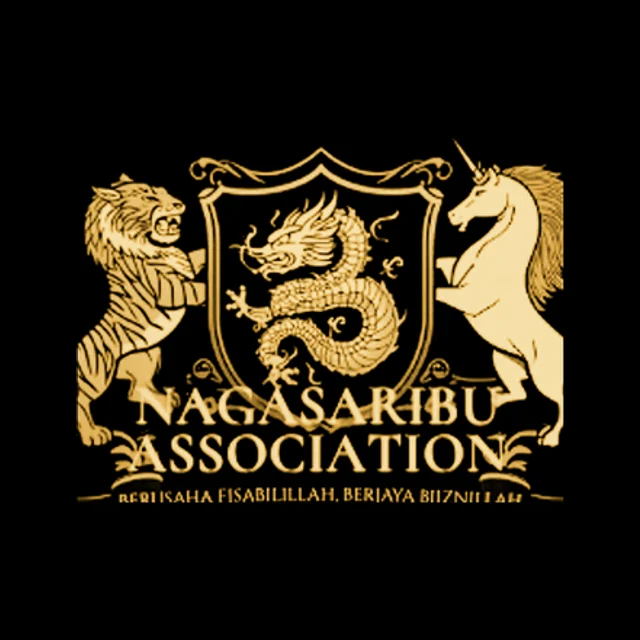
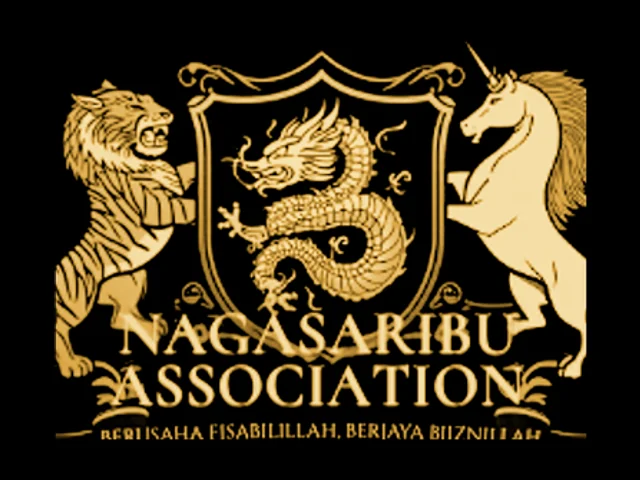
fix(assets): render entity emblems on 4:3 canvas so they fill the emblem box
The emblems were previously authored at three different aspect ratios
(440x327, 440x360, 405x440) with uneven ink margins. Management had a 0px
bottom margin, so object-fit:contain in the 16:9 .emblem box clipped it
visually against the card edge.

- ink box extracted with connected-component analysis (drops stray specks)
- recolored to the site gold ramp (#6e4f16 -> #d9a441 -> #f7e2ad) so all
  three entities match the brand palette instead of mixed steel/blue
- rendered on 440x330 (4:3, matches the 206x154 .emblem inner box), 128x128
  (square, for the 46px/56px icon slots) and 640x480 (entity page logo-card,
  flattened onto black) with the ink box centered and optically equal
- width/height hints updated to the new ratios to avoid layout shift
- cache-bust bumped to v=6

diff --git a/nagasaribu-website-v2/index.html b/nagasaribu-website-v2/index.html
@@ -171,9 +171,9 @@ footer{background:#040a15;color:#a9bccf;padding:56px 0 30px;font-size:13.5px}foo
 <div class="logo-rule"></div>
 </div>
 <div class="logo-list">
-<a class="logo-item" href="management"><img src="assets/nagasaribu-management-icon-128.webp?v=5" width="46" height="46" alt="" aria-hidden="true"><span><b>MANAGEMENT</b><span>Contracting • Supply • Workforce</span></span></a>
-<a class="logo-item" href="consultancy"><img src="assets/nagasaribu-consultancy-icon-128.webp?v=5" width="46" height="46" alt="" aria-hidden="true"><span><b>CONSULTANCY</b><span>Marketing | Consulting | Growth</span></span></a>
-<a class="logo-item" href="association"><img src="assets/nagasaribu-association-icon-128.webp?v=5" width="46" height="46" alt="" aria-hidden="true"><span><b>ASSOCIATION</b><span>Networking • Partnership</span></span></a>
+<a class="logo-item" href="management"><img src="assets/nagasaribu-management-icon-128.webp?v=6" width="46" height="46" alt="" aria-hidden="true"><span><b>MANAGEMENT</b><span>Contracting • Supply • Workforce</span></span></a>
+<a class="logo-item" href="consultancy"><img src="assets/nagasaribu-consultancy-icon-128.webp?v=6" width="46" height="46" alt="" aria-hidden="true"><span><b>CONSULTANCY</b><span>Marketing | Consulting | Growth</span></span></a>
+<a class="logo-item" href="association"><img src="assets/nagasaribu-association-icon-128.webp?v=6" width="46" height="46" alt="" aria-hidden="true"><span><b>ASSOCIATION</b><span>Networking • Partnership</span></span></a>
 </div>
 </div>
 </div>
@@ -213,14 +213,14 @@ footer{background:#040a15;color:#a9bccf;padding:56px 0 30px;font-size:13.5px}foo
 <section id="businesses" aria-labelledby="businesses-title" style="background:#fff;border-top:1px solid var(--line);border-bottom:1px solid var(--line)"><div class="wrap">
 <div class="eyebrow">OUR BUSINESSES</div><h2 class="title serif reveal" id="businesses-title">Three Entities. One Ecosystem.</h2>
 <div class="grid3" style="margin-top:24px">
-<div class="card reveal"><div class="emblem"><img src="assets/nagasaribu-management-icon-440.webp?v=5" width="220" height="132" alt="NAGASARIBU MANAGEMENT emblem" loading="lazy" decoding="async"></div><div class="pill">CONTRACTING • SUPPLY • WORKFORCE</div><h3>NAGASARIBU MANAGEMENT</h3><p>Construction, supply, workforce & technical solutions.</p><div class="svc" style="grid-template-columns:1fr 1fr">
+<div class="card reveal"><div class="emblem"><img src="assets/nagasaribu-management-icon-440.webp?v=6" width="220" height="165" alt="NAGASARIBU MANAGEMENT emblem" loading="lazy" decoding="async"></div><div class="pill">CONTRACTING • SUPPLY • WORKFORCE</div><h3>NAGASARIBU MANAGEMENT</h3><p>Construction, supply, workforce & technical solutions.</p><div class="svc" style="grid-template-columns:1fr 1fr">
 <div><div class="num">01</div><b>Contracting</b><p>Building, renovation, civil works</p></div>
 <div><div class="num">02</div><b>Supply</b><p>Materials, hardware, equipment</p></div>
 <div><div class="num">03</div><b>Workforce</b><p>Manpower supply & management</p></div>
 <div><div class="num">04</div><b>Technical</b><p>Electrical, plumbing, HVAC</p></div>
 </div><p style="margin-top:12px;font-size:12.5px">📍 No. 2–105, Jalan Prima SG 3/2, Batu Caves, Selangor</p><a class="learnmore" href="management">More on Management →</a></div>
-<div class="card reveal"><div class="emblem"><img src="assets/nagasaribu-association-icon-440.webp?v=5" width="220" height="132" alt="NAGASARIBU ASSOCIATION emblem" loading="lazy" decoding="async"></div><div class="pill">LEADERSHIP • UNITY • INTEGRITY</div><h3>NAGASARIBU ASSOCIATION</h3><p>Business community — networking, connections & partnerships.</p><div class="memberbox"><p class="motto">BERUSAHA FISABILILLAH, BERJAYA BIZNILLAH</p><p class="price-soft">RM300 <small>/ year</small></p><a class="btn btn-gold" href="#contact" data-service="Membership">JOIN ASSOCIATION</a></div><a class="learnmore" href="association" style="margin-top:14px">More on Association →</a></div>
-<div class="card reveal"><div class="emblem"><img src="assets/nagasaribu-consultancy-icon-440.webp?v=5" width="220" height="132" alt="NAGASARIBU CONSULTANCY emblem" loading="lazy" decoding="async"></div><div class="pill">STRATEGY • SOLUTION • SUCCESS</div><h3>NAGASARIBU CONSULTANCY</h3><p>Business, marketing & digital consultancy for growth & expansion.</p><div class="svc" style="grid-template-columns:1fr 1fr">
+<div class="card reveal"><div class="emblem"><img src="assets/nagasaribu-association-icon-440.webp?v=6" width="220" height="165" alt="NAGASARIBU ASSOCIATION emblem" loading="lazy" decoding="async"></div><div class="pill">LEADERSHIP • UNITY • INTEGRITY</div><h3>NAGASARIBU ASSOCIATION</h3><p>Business community — networking, connections & partnerships.</p><div class="memberbox"><p class="motto">BERUSAHA FISABILILLAH, BERJAYA BIZNILLAH</p><p class="price-soft">RM300 <small>/ year</small></p><a class="btn btn-gold" href="#contact" data-service="Membership">JOIN ASSOCIATION</a></div><a class="learnmore" href="association" style="margin-top:14px">More on Association →</a></div>
+<div class="card reveal"><div class="emblem"><img src="assets/nagasaribu-consultancy-icon-440.webp?v=6" width="220" height="165" alt="NAGASARIBU CONSULTANCY emblem" loading="lazy" decoding="async"></div><div class="pill">STRATEGY • SOLUTION • SUCCESS</div><h3>NAGASARIBU CONSULTANCY</h3><p>Business, marketing & digital consultancy for growth & expansion.</p><div class="svc" style="grid-template-columns:1fr 1fr">
 <div><div class="num">01</div><b>Business</b><p>Strategy & optimisation</p></div>
 <div><div class="num">02</div><b>Marketing</b><p>Digital, branding, leads</p></div>
 <div><div class="num">03</div><b>Digital & AI</b><p>Websites, automation, AI</p></div>
@@ -245,7 +245,7 @@ footer{background:#040a15;color:#a9bccf;padding:56px 0 30px;font-size:13.5px}foo
 <div class="card"><div class="plogo soon">COMING<br>SOON</div><div class="pill">COMING SOON</div><h3>Workforce Ecosystem</h3><p>Digital ecosystem for workforce, business & service management.</p><a class="learnmore" href="#contact" data-service="Workforce">Register interest →</a></div>
 </div>
 <div style="margin-top:18px">
-<div class="member"><div style="display:flex;gap:12px;align-items:center;position:relative;z-index:2"><img class="mlogo" src="assets/nagasaribu-association-icon-128.webp?v=5" width="56" height="56" alt="NAGASARIBU ASSOCIATION logo" loading="lazy" decoding="async"><div><div style="font-size:11px;letter-spacing:2px;color:var(--gold2)">PREMIUM • SECURE • CONNECTED</div><b>NAGASARIBU ASSOCIATION</b></div></div><div style="margin-top:14px;position:relative;z-index:2"><span class="sample-chip">SAMPLE — FOR ILLUSTRATION ONLY</span><br>MEMBER: SAMPLE MEMBER • ID: SAMPLE-000 • VALID: ISSUED AFTER APPROVAL<br>“Together Towards Greater Opportunities”<br>BERUSAHA FISABILILLAH, BERJAYA BIZNILLAH<br><br><a class="btn btn-gold" href="#contact" data-service="Membership">JOIN — RM300 / YEAR</a> <a class="btn btn-ghost" style="margin-top:10px" href="member-card">VIEW SAMPLE CARD</a></div></div>
+<div class="member"><div style="display:flex;gap:12px;align-items:center;position:relative;z-index:2"><img class="mlogo" src="assets/nagasaribu-association-icon-128.webp?v=6" width="56" height="56" alt="NAGASARIBU ASSOCIATION logo" loading="lazy" decoding="async"><div><div style="font-size:11px;letter-spacing:2px;color:var(--gold2)">PREMIUM • SECURE • CONNECTED</div><b>NAGASARIBU ASSOCIATION</b></div></div><div style="margin-top:14px;position:relative;z-index:2"><span class="sample-chip">SAMPLE — FOR ILLUSTRATION ONLY</span><br>MEMBER: SAMPLE MEMBER • ID: SAMPLE-000 • VALID: ISSUED AFTER APPROVAL<br>“Together Towards Greater Opportunities”<br>BERUSAHA FISABILILLAH, BERJAYA BIZNILLAH<br><br><a class="btn btn-gold" href="#contact" data-service="Membership">JOIN — RM300 / YEAR</a> <a class="btn btn-ghost" style="margin-top:10px" href="member-card">VIEW SAMPLE CARD</a></div></div>
 </div></div></section>
 
 <section id="process" aria-labelledby="process-title" style="background:#fff;border-top:1px solid var(--line)"><div class="wrap reveal">

diff --git a/nagasaribu-website-v2/consultancy.html b/nagasaribu-website-v2/consultancy.html
@@ -57,7 +57,7 @@ footer{background:#040a15;color:#a9bccf;padding:44px 0;font-size:13.5px}footer a
 <div class="card"><div class="num">06</div><h3>Platforms &amp; International</h3><p>Digital platforms and cross-border connectivity for expansion.</p></div>
 </div>
 <div class="disclaimer" role="note"><b>Important:</b> NAGASARIBU is not a bank and does not claim any direct banking relationship. Accounts are provided via WorldFirst; availability is subject to WorldFirst onboarding and approval. See the <a href="/#finance" style="color:#0047b3;font-weight:700">Finance section</a> for details.</div>
-<div class="card logo-card" style="margin-top:18px"><img src="assets/nagasaribu-consultancy-640.webp?v=5" width="400" height="400" alt="NAGASARIBU CONSULTANCY logo" loading="lazy" decoding="async"><p style="margin-top:12px"><a class="btn btn-gold" href="/?service=Business%20Consultancy#contact">BOOK CONSULTATION — RM100/SESSION</a></p><p style="margin-top:10px">Part of the <a href="./" style="color:#0047b3;font-weight:700">NAGASARIBU ecosystem</a>.</p></div>
+<div class="card logo-card" style="margin-top:18px"><img src="assets/nagasaribu-consultancy-640.webp?v=6" width="400" height="300" alt="NAGASARIBU CONSULTANCY logo" loading="lazy" decoding="async"><p style="margin-top:12px"><a class="btn btn-gold" href="/?service=Business%20Consultancy#contact">BOOK CONSULTATION — RM100/SESSION</a></p><p style="margin-top:10px">Part of the <a href="./" style="color:#0047b3;font-weight:700">NAGASARIBU ecosystem</a>.</p></div>
 </div></section>
 </main>
 <footer><div class="wrap"><a href="./">← Back to nagasaribu.online</a> &nbsp;•&nbsp; <a href="mailto:sales@nagasaribu.online">sales@nagasaribu.online</a><br>© 2026 NAGASARIBU • BERUSAHA FISABILILLAH, BERJAYA BIZNILLAH</div></footer>

diff --git a/nagasaribu-website-v2/association.html b/nagasaribu-website-v2/association.html
@@ -52,7 +52,7 @@ footer{background:#040a15;color:#a9bccf;padding:44px 0;font-size:13.5px}footer a
 <div class="card"><h3>Partnerships</h3><p>Build connections and partnerships within one ecosystem of three entities.</p></div>
 <div class="card"><div class="price">RM300 <small style="font-size:14px;color:var(--mut)">/ year</small></div><p style="margin-top:8px"><a class="btn btn-gold" href="/?service=Membership#contact">JOIN ASSOCIATION</a></p></div>
 </div>
-<div class="card logo-card" style="margin-top:18px"><img src="assets/nagasaribu-associations-640.webp?v=5" width="400" height="400" alt="NAGASARIBU ASSOCIATION logo" loading="lazy" decoding="async"><p style="margin-top:12px"><a class="btn btn-blue" href="member-card">VIEW SAMPLE VIRTUAL CARD</a></p><p style="margin-top:10px">Part of the <a href="./" style="color:#0047b3;font-weight:700">NAGASARIBU ecosystem</a>.</p></div>
+<div class="card logo-card" style="margin-top:18px"><img src="assets/nagasaribu-associations-640.webp?v=6" width="400" height="300" alt="NAGASARIBU ASSOCIATION logo" loading="lazy" decoding="async"><p style="margin-top:12px"><a class="btn btn-blue" href="member-card">VIEW SAMPLE VIRTUAL CARD</a></p><p style="margin-top:10px">Part of the <a href="./" style="color:#0047b3;font-weight:700">NAGASARIBU ecosystem</a>.</p></div>
 </div></section>
 </main>
 <footer><div class="wrap"><a href="./">← Back to nagasaribu.online</a> &nbsp;•&nbsp; <a href="mailto:sales@nagasaribu.online">sales@nagasaribu.online</a><br>© 2026 NAGASARIBU • BERUSAHA FISABILILLAH, BERJAYA BIZNILLAH</div></footer>

diff --git a/nagasaribu-website-v2/management.html b/nagasaribu-website-v2/management.html
@@ -53,7 +53,7 @@ footer{background:#040a15;color:#a9bccf;padding:44px 0;font-size:13.5px}footer a
 <div class="card"><div class="num">03</div><h3>Workforce</h3><p>Manpower supply &amp; management across Malaysia and Indonesia.</p><a class="btn btn-blue" style="margin-top:14px" href="/?service=Workforce#contact">Enquire — Workforce</a></div>
 <div class="card"><div class="num">04</div><h3>Technical</h3><p>Electrical, plumbing and HVAC works and support.</p><a class="btn btn-blue" style="margin-top:14px" href="/?service=Contracting#contact">Enquire — Technical</a></div>
 </div>
-<div class="card logo-card" style="margin-top:18px"><img src="assets/nagasaribu-management-640.webp?v=5" width="400" height="400" alt="NAGASARIBU MANAGEMENT logo" loading="lazy" decoding="async"><p style="margin-top:10px">Part of the <a href="./" style="color:#0047b3;font-weight:700">NAGASARIBU ecosystem</a> alongside Consultancy and Association.</p></div>
+<div class="card logo-card" style="margin-top:18px"><img src="assets/nagasaribu-management-640.webp?v=6" width="400" height="300" alt="NAGASARIBU MANAGEMENT logo" loading="lazy" decoding="async"><p style="margin-top:10px">Part of the <a href="./" style="color:#0047b3;font-weight:700">NAGASARIBU ecosystem</a> alongside Consultancy and Association.</p></div>
 </div></section>
 </main>
 <footer><div class="wrap"><a href="./">← Back to nagasaribu.online</a> &nbsp;•&nbsp; <a href="mailto:sales@nagasaribu.online">sales@nagasaribu.online</a><br>© 2026 NAGASARIBU • BERUSAHA FISABILILLAH, BERJAYA BIZNILLAH</div></footer>

diff --git a/nagasaribu-website-v2/member-card.html b/nagasaribu-website-v2/member-card.html
@@ -66,7 +66,7 @@ h1{font-family:"Playfair Display",serif;font-size:clamp(24px,4vw,36px);margin:8p
 <div class="scene" id="scene" title="Tap to flip">
 <div class="card3d">
 <div class="face front">
-<div class="top"><img src="assets/nagasaribu-association-icon-128.webp?v=5" width="58" height="58" alt="NAGASARIBU ASSOCIATION logo"><div><small>PREMIUM • SECURE • CONNECTED</small><b>NAGASARIBU ASSOCIATION</b></div></div>
+<div class="top"><img src="assets/nagasaribu-association-icon-128.webp?v=6" width="58" height="58" alt="NAGASARIBU ASSOCIATION logo"><div><small>PREMIUM • SECURE • CONNECTED</small><b>NAGASARIBU ASSOCIATION</b></div></div>
 <div class="mid">MEMBER: <b>SAMPLE MEMBER</b> • ID: <b>SAMPLE-000</b> • VALID: <b>AFTER APPROVAL</b><br><span class="tagline">“Together Towards Greater Opportunities”</span><br><span class="arab">BERUSAHA FISABILILLAH, BERJAYA BIZNILLAH</span></div>
 <div><a class="btn" href="/?service=Membership#contact">JOIN — RM300 / YEAR</a></div>
 </div>
